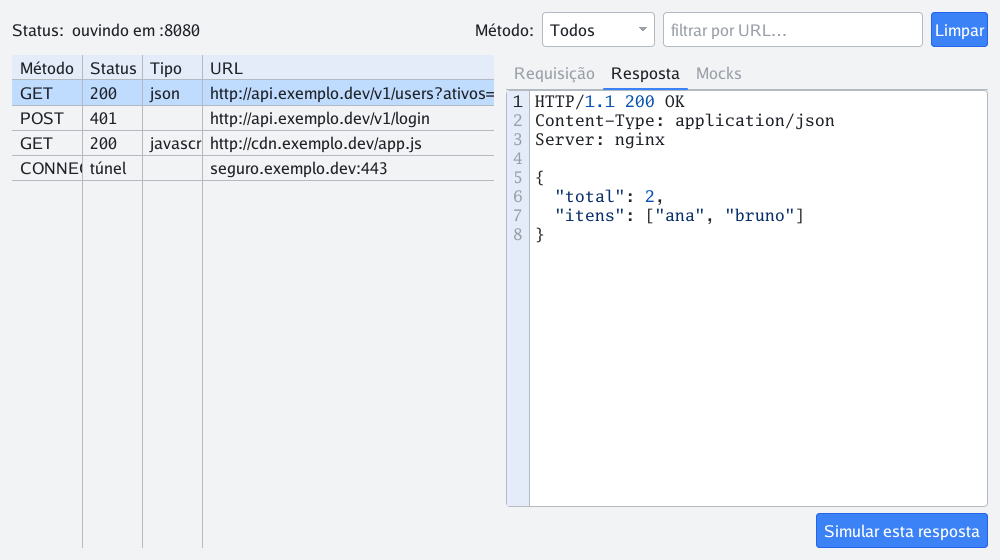
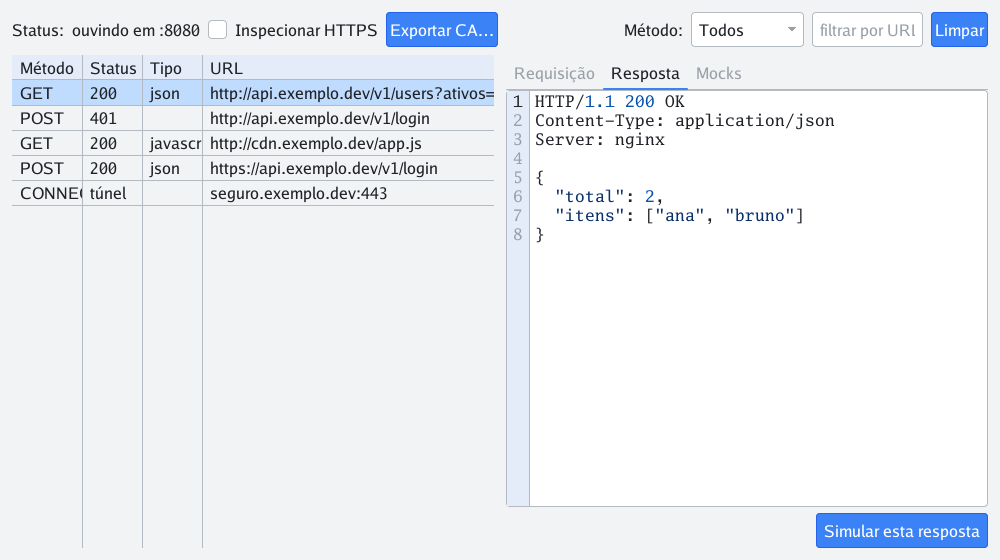
mini-proxy MITM: UI de inspeção de HTTPS + exportar CA
A barra ganhou 'Inspecionar HTTPS' (liga prox.SetInspect) e 'Exportar CA…'
(mostra o caminho da CA para instalar na trust store); ligar a inspeção
avisa por toast para instalar a CA antes. main carrega/cria a CA local
(LoadOrCreateCA no diretório de config) e a liga ao proxy; a tabela passa a
mostrar as trocas https:// decifradas junto das http. README com o passo
da CA e o aviso de segurança; docs/proxy.png regenerado.

diff --git a/examples/proxy/ui/ui.go b/examples/proxy/ui/ui.go
@@ -27,9 +27,13 @@ type Vista struct {
 
 	metodo   *juigo.State[string]
 	filtro   *juigo.State[string]
+	inspect  *juigo.State[bool]
 	sel      *juigo.State[int]
 	selID    int
 	visiveis []*proxy.Exchange
+	// exportCA é o callback de "Exportar CA…" (o main faz o I/O e avisa o
+	// caminho); nil esconde o botão.
+	exportCA func()
 
 	tabela   *juigo.Table
 	abas     *juigo.Tabs
@@ -46,13 +50,14 @@ type Vista struct {
 // de outras goroutines e precisa saltar para a main thread).
 func New(prox *proxy.Proxy, post func(func())) *Vista {
 	v := &Vista{
-		prox:   prox,
-		post:   post,
-		metodo: juigo.NewState("Todos"),
-		filtro: juigo.NewState(""),
-		sel:    juigo.NewState(-1),
-		selID:  -1,
-		status: juigo.NewState("parado"),
+		prox:    prox,
+		post:    post,
+		metodo:  juigo.NewState("Todos"),
+		filtro:  juigo.NewState(""),
+		inspect: juigo.NewState(false),
+		sel:     juigo.NewState(-1),
+		selID:   -1,
+		status:  juigo.NewState("parado"),
 	}
 
 	// Mestre: filtros + tabela de trocas.
@@ -63,6 +68,23 @@ func New(prox *proxy.Proxy, post func(func())) *Vista {
 	v.filtro.Watch(func(string) { v.reprojeta() })
 	limpar := juigo.NewButton("Limpar", func() {
 		prox.Store.Clear()
+	}).Pad(4)
+
+	// Interceptação de HTTPS (MITM): liga a inspeção e lembra de instalar a
+	// CA. Sem a CA instalada, o HTTPS daria erro de certificado.
+	inspecionar := juigo.NewCheckbox("Inspecionar HTTPS").BindChecked(v.inspect)
+	v.inspect.Watch(func(on bool) {
+		prox.SetInspect(on)
+		if on {
+			quick.Toast("Inspeção de HTTPS ligada — instale a CA (Exportar CA…) para não dar erro de certificado")
+		}
+	})
+	exportarCA := juigo.NewButton("Exportar CA…", func() {
+		if v.exportCA != nil {
+			v.exportCA()
+		} else {
+			quick.Toast("Sem CA configurada nesta execução")
+		}
 	}).Pad(4)
 
 	v.tabela = juigo.NewTable([]string{"Método", "Status", "Tipo", "URL"}, 0, v.celula).
@@ -101,6 +123,8 @@ func New(prox *proxy.Proxy, post func(func())) *Vista {
 		juigo.NewHBox(
 			juigo.Centered(juigo.NewText("Status:")),
 			juigo.Centered(juigo.NewText("").BindText(v.status)),
+			juigo.Centered(inspecionar),
+			exportarCA,
 			juigo.NewSpacer(),
 			juigo.Centered(juigo.NewText("Método:")),
 			filtroMetodo,
@@ -124,6 +148,13 @@ func New(prox *proxy.Proxy, post func(func())) *Vista {
 // SetStatus atualiza o texto de status (main thread).
 func (v *Vista) SetStatus(s string) {
 	v.status.Set(s)
+}
+
+// OnExportCA registra o callback do botão "Exportar CA…" (o main faz o I/O
+// e avisa o caminho). Encadeável.
+func (v *Vista) OnExportCA(fn func()) *Vista {
+	v.exportCA = fn
+	return v
 }
 
 // SelectFirst seleciona a primeira troca visível, se houver — atalho para

diff --git a/examples/proxy/main.go b/examples/proxy/main.go
@@ -4,25 +4,29 @@
 // SIMULAR respostas de chamadas específicas (mocks). Três camadas, como os
 // demais exemplos: proxy/ é o domínio puro, ui/ a Vista, este main compõe.
 //
-// Uso: rode o app, aponte um cliente HTTP para o proxy e veja as trocas:
+// HTTP é inspecionado direto. Para inspecionar/mockar HTTPS, ligue
+// "Inspecionar HTTPS" e instale a CA local (botão "Exportar CA…") na trust
+// store do sistema/navegador — é a mesma técnica do mitmproxy/Charles. A CA
+// vive só na sua máquina; use apenas para depurar o SEU próprio tráfego.
 //
 //	go run ./examples/proxy
 //	# noutro terminal:
 //	HTTP_PROXY=http://localhost:8080 curl http://httpbin.org/get
-//
-// Ferramenta de DEPURAÇÃO da própria máquina. HTTPS passa por túnel (não é
-// inspecionado): inspecionar/mockar HTTPS exigiria um CA de interceptação
-// (MITM), fora do escopo deste exemplo.
+//	# com HTTPS (após instalar a CA):
+//	HTTPS_PROXY=http://localhost:8080 curl https://httpbin.org/get
 package main
 
 import (
 	"flag"
 	"log"
 	"net/http"
+	"os"
+	"path/filepath"
 
 	"github.com/JonathanSantos/JUIGo"
 	"github.com/JonathanSantos/JUIGo/examples/proxy/proxy"
 	"github.com/JonathanSantos/JUIGo/examples/proxy/ui"
+	"github.com/JonathanSantos/JUIGo/quick"
 )
 
 func main() {
@@ -31,11 +35,31 @@ func main() {
 
 	prox := proxy.New()
 
+	// CA local para interceptar HTTPS (persistida no diretório de config).
+	dir := "juigo-proxy"
+	if base, err := os.UserConfigDir(); err == nil {
+		dir = filepath.Join(base, "juigo-proxy")
+	}
+	caPath := filepath.Join(dir, "juigo-proxy-ca.pem")
+	if ca, err := proxy.LoadOrCreateCA(dir); err != nil {
+		log.Printf("proxy: sem CA (HTTPS só por túnel): %v", err)
+	} else {
+		prox.CA = ca
+	}
+
 	app, err := juigo.New("Proxy — mini Burp em JUIGo", 1000, 620)
 	if err != nil {
 		log.Fatal(err)
 	}
 	vista := ui.New(prox, app.Post)
+	vista.OnExportCA(func() {
+		if prox.CA == nil {
+			quick.Alert("Nenhuma CA disponível.")
+			return
+		}
+		// A CA já está persistida em caPath por LoadOrCreateCA; avisa onde.
+		quick.Alert("CA em:\n" + caPath + "\n\nInstale-a na trust store do sistema/navegador para inspecionar HTTPS. Use só para depurar o seu próprio tráfego.")
+	})
 	app.SetRoot(vista.Raiz)
 
 	// Sobe o servidor do proxy em background; a UI segue na main thread.

diff --git a/README.md b/README.md
@@ -215,11 +215,17 @@ flags de cada widget.
   depuração HTTP local que captura as trocas que passam por ele, filtra por
   método/URL, mostra requisição e resposta em visores `CodeEditor` em modo
   `ReadOnly` (com highlight JSON) e permite SIMULAR respostas de chamadas
-  específicas (mocks). HTTP é inspecionado; HTTPS passa por túnel (não
-  inspecionado). Aponte um cliente para o proxy:
-  `HTTP_PROXY=http://localhost:8080 curl http://httpbin.org/get`.
+  específicas (mocks). Inspeciona **HTTP e também HTTPS** (via uma CA local
+  gerada — MITM, a mesma técnica do mitmproxy/Charles): ligue "Inspecionar
+  HTTPS", exporte a CA e instale-a na sua trust store. Aponte um cliente
+  para o proxy:
+  `HTTPS_PROXY=http://localhost:8080 curl https://httpbin.org/get`.
 
-  ![Mini-proxy: captura, visor ReadOnly e mocks](docs/proxy.png)
+  > **Segurança:** a CA nasce e vive só na sua máquina (chave `0600`),
+  > nunca deve ser compartilhada, e a inspeção só se justifica para depurar
+  > o **seu próprio** tráfego. Cert pinning continua rejeitando o proxy.
+
+  ![Mini-proxy: captura HTTP/HTTPS, visor ReadOnly e mocks](docs/proxy.png)
 
 - **`go run ./examples/editor [arquivo]`** — o CodeEditor: highlight de
   sintaxe incremental (Go/JSON pela extensão; abrir um `/*` re-lexa só até
